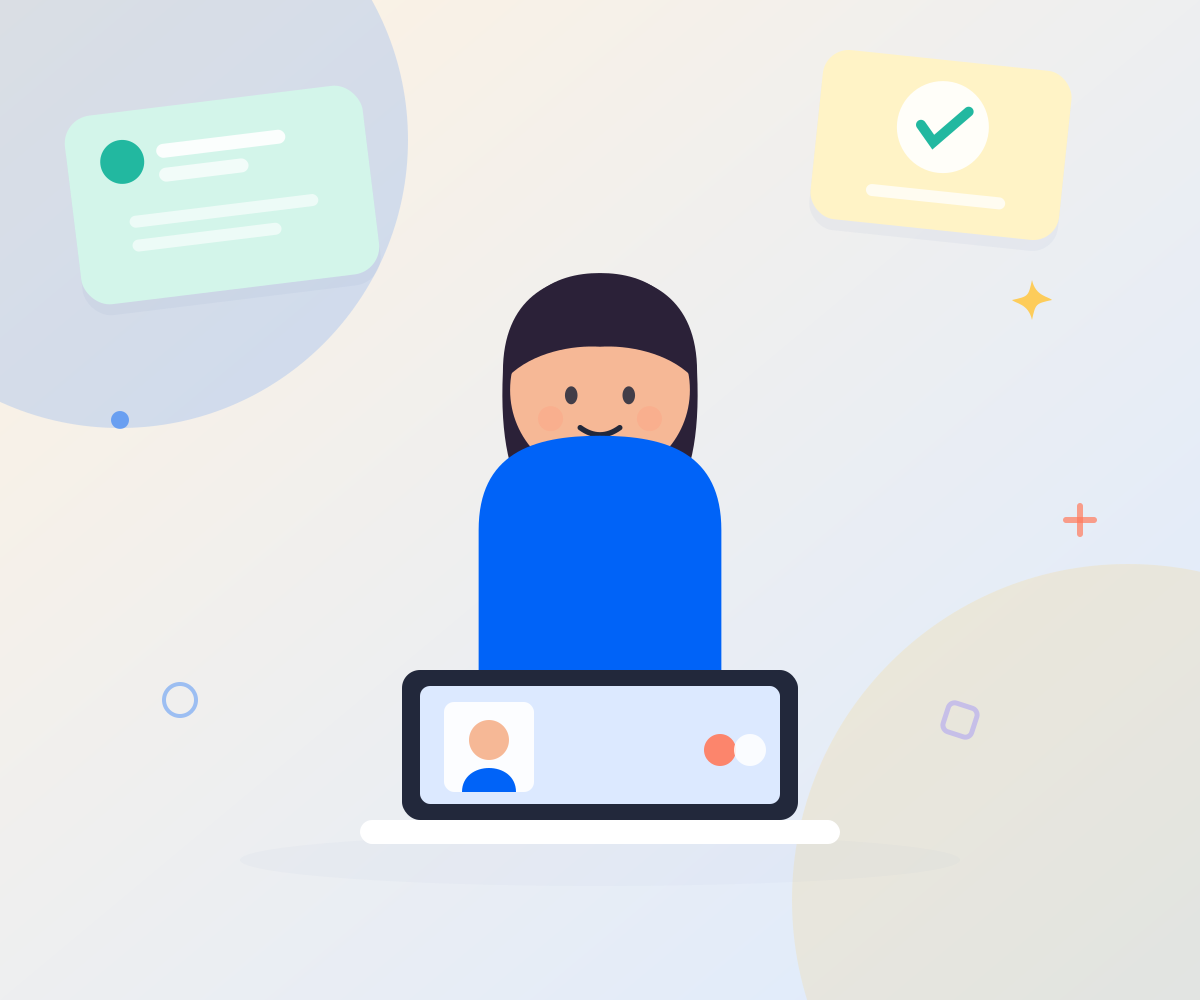
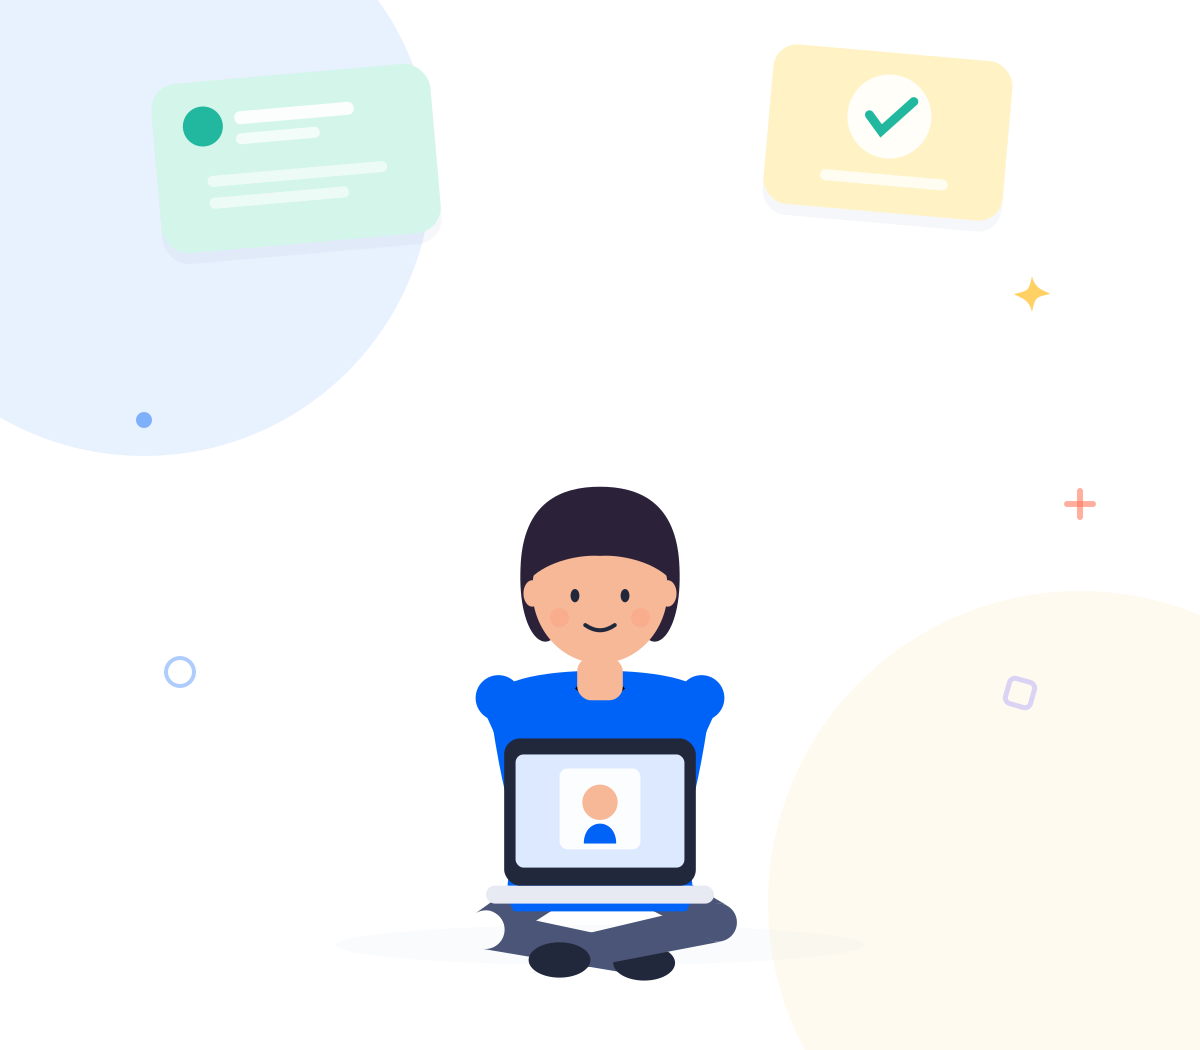
Onboarding: human-proportioned figures, transparent backgrounds, fix left-align bug
Three reports on the previous custom-artwork pass:

1. "I need a human like illustration... not a cartoon" — the
   characters were a circle head sitting directly on a dome-shaped
   torso, no neck/shoulders/limbs (an avatar icon, not a person).
   Rebuilt with a properly-proportioned seated figure: real neck,
   hourglass torso, two-segment arms with visible hands, crossed legs.

2. "the backgrounds have to be transparent" — canvas had an opaque
   corner-to-corner gradient fill, reading as a flat square behind the
   art. Now genuinely transparent PNGs; only two soft blurred color
   blobs paint anything, as real per-pixel alpha.

3. "placing them at the left of the screen where they are touching
   the edge" — turned out to be an unrelated pre-existing layout bug:
   the image box (86% of slide width) had no alignSelf, so it defaulted
   to flex-start (flush left) instead of centering inside its full-width
   parent. Added alignSelf: 'center' to styles.image in
   src/onboarding/index.tsx.

diff --git a/src/onboarding/index.tsx b/src/onboarding/index.tsx
@@ -82,24 +82,35 @@ const Onboarding = memo(() => {
   // sourced-online passes (unDraw, both times) that the product owner
   // rejected as not matching the polish of a reference screenshot they
   // shared — a phone-mockup hero with floating drop-shadowed cards, a warm
-  // gradient backdrop, and flat-but-colorful characters, the "top 500
-  // fortune apps" look. Rather than keep hunting for a free pack that
-  // happens to match that exact reference (DrawKit, ManyPixels, Humaaans,
-  // Open Doodles, and the full 1,263-illustration unDraw catalog were all
-  // evaluated first — see assets/images/index.ts's comment for the full
-  // trail), these 5 are now fully original artwork, hand-built in code to
-  // match the reference's actual design system rather than approximate it:
-  // a warm two-tone gradient backdrop per slide, a torso-up flat character
-  // (unique hair/skin/outfit per slide for a varied "cast", same shape
-  // language throughout), 2 floating rounded cards with soft colored
-  // (never flat-black) blurred drop shadows and a slight rotation, plus a
-  // scattering of small decorative sparkle/dot/plus/ring accents — the same
-  // ingredients as the reference, composed fresh for this app's 5 actual
-  // topics: a video-call interview, headphones+mic AI feedback with a star
-  // rating, a phone job-alert notification, a resume with a checkmark seal,
-  // and an open book for "learn one course at a time". See
-  // assets/images/index.ts for how the source (a small Python SVG "design
-  // kit" this session wrote, then rasterized) is documented.
+  // gradient backdrop, and flat-but-colorful characters. Rather than keep
+  // hunting for a free pack that happens to match that exact reference
+  // (DrawKit, ManyPixels, Humaaans, Open Doodles, and the full 1,263-
+  // illustration unDraw catalog were all evaluated first — see
+  // assets/images/index.ts's comment for the full trail), these 5 are
+  // original artwork, hand-built in code to match the reference's design
+  // system: floating rounded cards with soft colored (never flat-black)
+  // blurred drop shadows and a slight rotation, plus scattered decorative
+  // sparkle/dot/plus/ring accents.
+  //
+  // TWO FOLLOW-UP FIXES after the first custom-artwork pass:
+  // 1) "I need a human like illustration... the one you created is like a
+  // cartoon" — the first pass drew each character as a circle head sitting
+  // directly on a dome-shaped torso (no neck/shoulders/limbs), which reads
+  // as an avatar icon, not a person. Rebuilt as a properly-proportioned
+  // seated figure instead — real neck, hourglass torso (shoulders wider
+  // than waist), two-segment arms with visible hands, and crossed legs —
+  // matching the reference's actual human anatomy rather than a mascot.
+  // 2) "why are you always giving the illustrations a square background...
+  // they have to be transparent" — the canvas used to have an opaque
+  // corner-to-corner gradient fill; it's a transparent PNG now (only the
+  // two soft blurred color blobs paint anything, as real per-pixel alpha,
+  // so they blend into this screen's own background instead of showing a
+  // hard rectangle edge).
+  //
+  // "you are placing them at the left of the screen where they are
+  // touching the edge" was actually a separate, unrelated layout bug in
+  // this file, not the artwork — see the `alignSelf: 'center'` fix and
+  // comment on `styles.image` below.
   const DATA = [
     // `aspect` (width / height, measured from each PNG's actual pixel
     // dimensions) — see the image container's own comment below for why
@@ -112,35 +123,35 @@ const Onboarding = memo(() => {
       title: t('intro:title_1'),
       subtitle: t('intro:subtitle_1'),
       image: Images.onboardingInterview,
-      aspect: 1200 / 1000,
+      aspect: 1200 / 1050,
     },
     {
       id: 1,
       title: t('intro:title_2'),
       subtitle: t('intro:subtitle_2'),
       image: Images.onboardingFeedback,
-      aspect: 1200 / 1000,
+      aspect: 1200 / 1050,
     },
     {
       id: 2,
       title: t('intro:title_3'),
       subtitle: t('intro:subtitle_3'),
       image: Images.onboardingJobAlert,
-      aspect: 1200 / 1000,
+      aspect: 1200 / 1050,
     },
     {
       id: 3,
       title: t('intro:title_4'),
       subtitle: t('intro:subtitle_4'),
       image: Images.onboardingResumeScan,
-      aspect: 1200 / 1000,
+      aspect: 1200 / 1050,
     },
     {
       id: 4,
       title: t('intro:title_5'),
       subtitle: t('intro:subtitle_5'),
       image: Images.onboardingLearning,
-      aspect: 1200 / 1000,
+      aspect: 1200 / 1050,
     },
   ];
 
@@ -335,6 +346,16 @@ const themedStyles = StyleService.create({
   },
   image: {
     marginVertical: 24,
+    // BUG FIX (report: "you are placing them at the left of the screen
+    // where they are touching the edge"): this box is only 86% of the
+    // slide's width (`width * 0.86` at the call site), sitting inside a
+    // full-width Animated.View. Without an explicit alignSelf, a child
+    // with its own fixed width defaults to the flex-start edge — flush
+    // left, not centered — which is exactly what left that 14% margin
+    // entirely on the right and none on the left. alignItems/
+    // justifyContent below only ever centered the <Image> *inside* this
+    // box; they never centered the box itself within its parent.
+    alignSelf: 'center',
     alignItems: 'center',
     justifyContent: 'center',
     borderRadius: 24,

diff --git a/assets/images/index.ts b/assets/images/index.ts
@@ -115,38 +115,39 @@ export const Images = {
   // actually sell as "illustration packs."
   //
   // THIRD PASS — original artwork, not sourced online. The first two passes
-  // both used unDraw (free/no-attribution, undraw.co/license) — pass 1
-  // picked 5 topically-matching illustrations directly; pass 2 swapped the
-  // 2 that stood out as visual outliers (flat chart mockup / plain-white
-  // background) for 2 different unDraw pieces that already had the other
-  // 3 slides' soft-blob-background treatment. Both passes were rejected as
-  // not matching a reference screenshot the product owner shared: a phone-
-  // mockup hero with floating drop-shadowed cards, a warm gradient
-  // backdrop, and flat-but-colorful characters. Before designing from
+  // both used unDraw (free/no-attribution, undraw.co/license) and were
+  // rejected as not matching a reference screenshot the product owner
+  // shared: a phone-mockup hero with floating drop-shadowed cards, a warm
+  // gradient backdrop, flat-but-colorful characters. Before designing from
   // scratch, DrawKit, ManyPixels, Humaaans, Open Doodles, Storyset,
   // Craftwork, and Iconscout were all evaluated as alternative *sources*
-  // for that exact look — DrawKit's site leaks direct S3 zip links per
-  // collection, but most "Free"-badged collections are actually served
-  // from its `drawkit-paid` bucket; ManyPixels/Storyset/Craftwork/
-  // Iconscout's asset CDNs are unreachable from this sandbox's network
-  // allowlist (confirmed via direct curl, not just this fetch tool);
-  // Humaaans/Open Doodles are reachable via npm but are a body-parts kit
-  // and a lifestyle-doodle set respectively, neither able to reproduce the
-  // reference's specific "hero + floating UI cards" composition.
+  // for that exact look and ruled out (see git log on this file for the
+  // full per-source trail) — so these 5 are hand-built SVG artwork
+  // instead, generated by a small reusable Python "design kit"
+  // (svg_kit.py/components.py/palette.py/person2.py, this session's
+  // scratch workspace, not checked into the repo) and rasterized with
+  // cairosvg at 1200x1050.
   //
-  // So these 5 are hand-built SVG artwork instead: a small reusable
-  // "design kit" (Python, generating raw SVG — see svg_kit.py/components.py/
-  // palette.py in this session's scratch workspace, not checked into the
-  // repo) with a soft two-tone gradient background + 2 blurred color blobs
-  // per scene, a torso-up flat character (parametrized hair style/skin
-  // tone/outfit color so each of the 5 has a visually distinct "cast"),
-  // floating rounded cards with a soft blurred *colored* drop shadow
-  // (never flat black) and a slight rotation, and scattered sparkle/dot/
-  // plus/ring decorative accents — the same visual ingredients as the
-  // reference. Rasterized to PNG with cairosvg at 1200x1000 (all 5 share
-  // one canvas size/aspect, unlike the varied aspects of the two unDraw
-  // passes). Being original artwork, there's no license/attribution
-  // question at all here.
+  // FOURTH PASS (two follow-up reports on the third pass) — same design
+  // kit, two real changes to it:
+  // 1) "I need a human like illustration... not a cartoon" — replaced the
+  // original character (a circle head on a dome-shaped torso, no neck or
+  // limbs — an avatar icon, not a person) with a properly-proportioned
+  // seated figure: real neck, hourglass torso, two-segment arms ending in
+  // visible hands, crossed legs. person2.py's `person_full()`/`arm()`.
+  // 2) "the backgrounds have to be transparent" — the canvas used to have
+  // an opaque corner-to-corner gradient fill (read as a "square" behind
+  // the artwork); `components.py`'s `background()` now only paints two
+  // soft blurred color blobs with real per-pixel alpha, nothing opaque, so
+  // it blends into whatever page background sits behind it in the app.
+  //
+  // A third report in the same round ("placing them at the left of the
+  // screen where they are touching the edge") turned out to be an
+  // unrelated pre-existing layout bug in src/onboarding/index.tsx (the
+  // image box was missing `alignSelf: 'center'`), not an artwork problem —
+  // fixed there, see that file's own comment.
+  //
+  // Being original artwork, there's no license/attribution question here.
   onboardingInterview: require("./img_onboarding_interview.png"),
   onboardingFeedback: require("./img_onboarding_feedback.png"),
   onboardingJobAlert: require("./img_onboarding_job_alert.png"),
